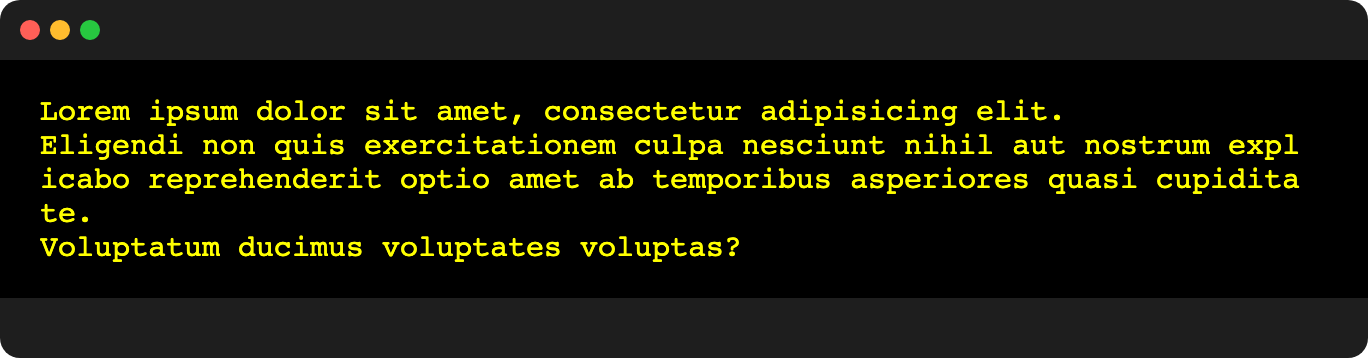
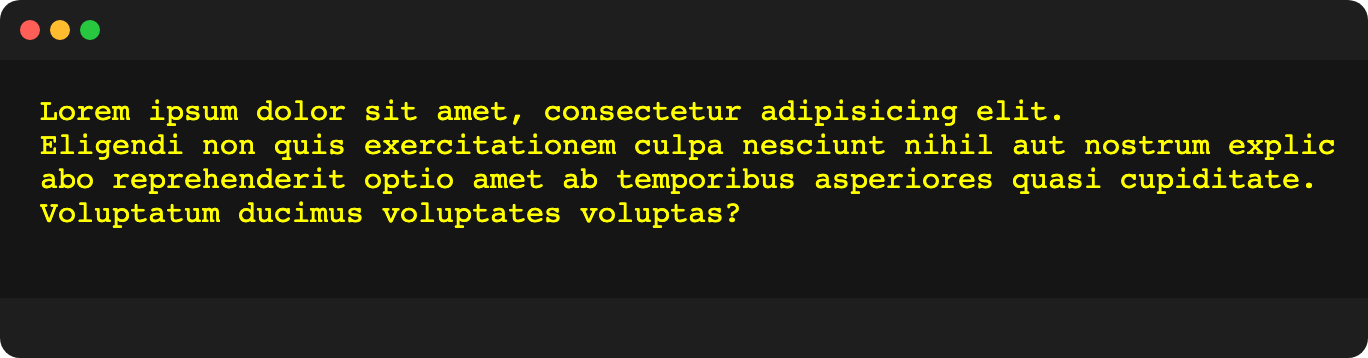
chore: config

Changed region(s): [[0.0307, 0.4609, 0.9518, 0.6453], [0.0307, 0.6453, 0.5526, 0.7374], [0.9518, 0.3687, 0.9825, 0.4302]]

diff --git a/shellfie.js b/shellfie.js
@@ -3,7 +3,6 @@ const puppeteer = require('puppeteer');
 const getConfig = require('./utils/config');
 const path = require('path');
 const fs = require('fs').promises;
-const { Terminal } = require('xterm');
 
 async function shellfie(data, config) {
     try {
@@ -12,7 +11,7 @@ async function shellfie(data, config) {
         }
         const localPath = process.env.INIT_CWD || process.cwd();
         const { name, location, style, theme, ext, puppeteerArgs, viewport, mode } = getConfig(config, localPath);
-        
+
         const browser = await puppeteer.launch(puppeteerArgs);
         const page = await browser.newPage();
 
@@ -25,7 +24,7 @@ async function shellfie(data, config) {
         // inject js scripts
         const localModules = path.join(localPath, 'node_modules')
         await page.addScriptTag({ path: `${localModules}/xterm/lib/xterm.js` });
-        
+
         // set page html
         await page.setContent(html);
         await page.waitForSelector('.main');
@@ -38,7 +37,7 @@ async function shellfie(data, config) {
 
             const isArray = Array.isArray(lines);
             const length = isArray ? lines.length : lines.split('\n').length;
-
+            const { rows, cols } = term;
             if (mode === 'default') {
                 lines.forEach(line => {
                     line = line.replace(/\\x1.?\[/g, "\x1b[");
@@ -47,25 +46,48 @@ async function shellfie(data, config) {
                 });
             } else {
                 lines = lines.replace(/\n/g, '\r\n');
-                term.write(lines);
+                lines = chunkArray(lines.split(' '), cols * 4);
+                lines.forEach(line => {
+                    line = line.join(' ');
+                    line = line.replace(/\\x1.?\[/g, "\x1b[");
+                    line = `${line}\x1b[0m`;
+                    term.writeln(line);
+                });
             }
 
             if (isArray && length > 5) {
                 term.resize((Number(length) * 4), Number(length) + 3);
             } else {
-                const { rows, cols } = term;
                 const rowsNumber = rows > length ? (length * 2) + 1 : rows;
-                term.resize(cols - 10, rowsNumber);
+                term.resize(cols - 8, mode === "default" ? rowsNumber : rows + 5);
+            }
+
+
+            function chunkArray(myArray, size) {
+                var index = 0;
+                var arrayLength = myArray.length;
+                var tempArray = [];
+
+                for (index = 0; index < arrayLength; index += size) {
+                    myChunk = myArray.slice(index, index + size);
+                    tempArray.push(myChunk);
+                }
+
+                return tempArray;
             }
 
         }, { lines, mode, options: style ? { theme, ...style } : { theme } });
-        
+
         // inject styles
         await page.addStyleTag({ path: `${localModules}/xterm/css/xterm.css` })
         await page.addStyleTag({ path: `${path.resolve(__dirname, 'template/template.css')}` });
 
         // crop image   
-        const clip = await (await page.$(".main")).boundingBox()
+        const clip = await (await page.$(".main")).boundingBox();
+        clip.height = Math.min(clip.height, page.viewport().height);
+        clip.width = Math.min(clip.width, page.viewport().width);
+
+        await page.evaluate((height) => document.querySelector('.main').style.height = height, clip.height);
 
         // create shellfies dir
         const pngsDir = path.resolve(location);
@@ -81,5 +103,6 @@ async function shellfie(data, config) {
         throw err;
     }
 }
+
 
 module.exports = shellfie

diff --git a/utils/config.js b/utils/config.js
@@ -15,8 +15,8 @@ function getConfig(config, localPath) {
     const defaultpuppeteerArgs = ['--no-sandbox', '--disable-setuid-sandbox'];
     const defaultViewport = { width: 700, height: 600 };
     const defaultTheme = { background: '#151515' };
-    
-    const defaultOptions = {
+
+    const options = {
         name: generateId(),
         location: `${localPath}/shellfies`,
         style: {},
@@ -27,17 +27,17 @@ function getConfig(config, localPath) {
         mode: 'default'
     };
 
-    Object.assign(defaultOptions, config);
-
-    if (config.puppeteerArgs) {
-        defaultOptions.puppeteerArgs = { args: config.puppeteerArgs ? [...defaultpuppeteerArgs, ...puppeteerArgs] : defaultpuppeteerArgs };
-    }
-
-    if (config.viewport) {
-        defaultOptions.viewport = { width: config.viewport.width || defaultViewport.width, height: config.viewport.height || defaultViewport.height };
+    if (config) {
+        const userConfig = Object.keys(config).reduce((acc, key) => {
+            if (key in options) {
+                acc[key] = typeof options[key] === "object" ? Object.assign(options[key], config[key]) : config[key];
+            }
+            return acc;
+        }, {});
+        return Object.assign(options, userConfig);
     }
     
-    return defaultOptions;
+    return options;
 }
 
 module.exports = getConfig;

diff --git a/tests/shellfie.test.js b/tests/shellfie.test.js
@@ -10,6 +10,20 @@ describe('shellfie', () => {
         await shellfie(["\x1b[32mGreen line", "\x1b[31;1mRED bold"], { name: 'small', viewport: {width: 200} });
     });
 
+    it('should support long raw output', async () => {
+        let foreground = '';
+        let background = '';
+        for (let i = 0; i < 255; i++) {
+            foreground += `\x1b[38;5;${i}m ${i}\x1b[0m`;
+        }
+        await shellfie(foreground, { name: 'foreground', mode: 'raw'});
+
+        for (let i = 0; i < 255; i++) {
+            background += `\x1b[48;5;${i}m ${i}\x1b[0m`;
+        }
+        shellfie(background, {mode: 'raw', name: 'test'});
+    });
+
     it('should support raw string', async () => {
         const string = `
     [32m  ✓[0m[90m should support complex string[0m[31m (928ms)[0m
